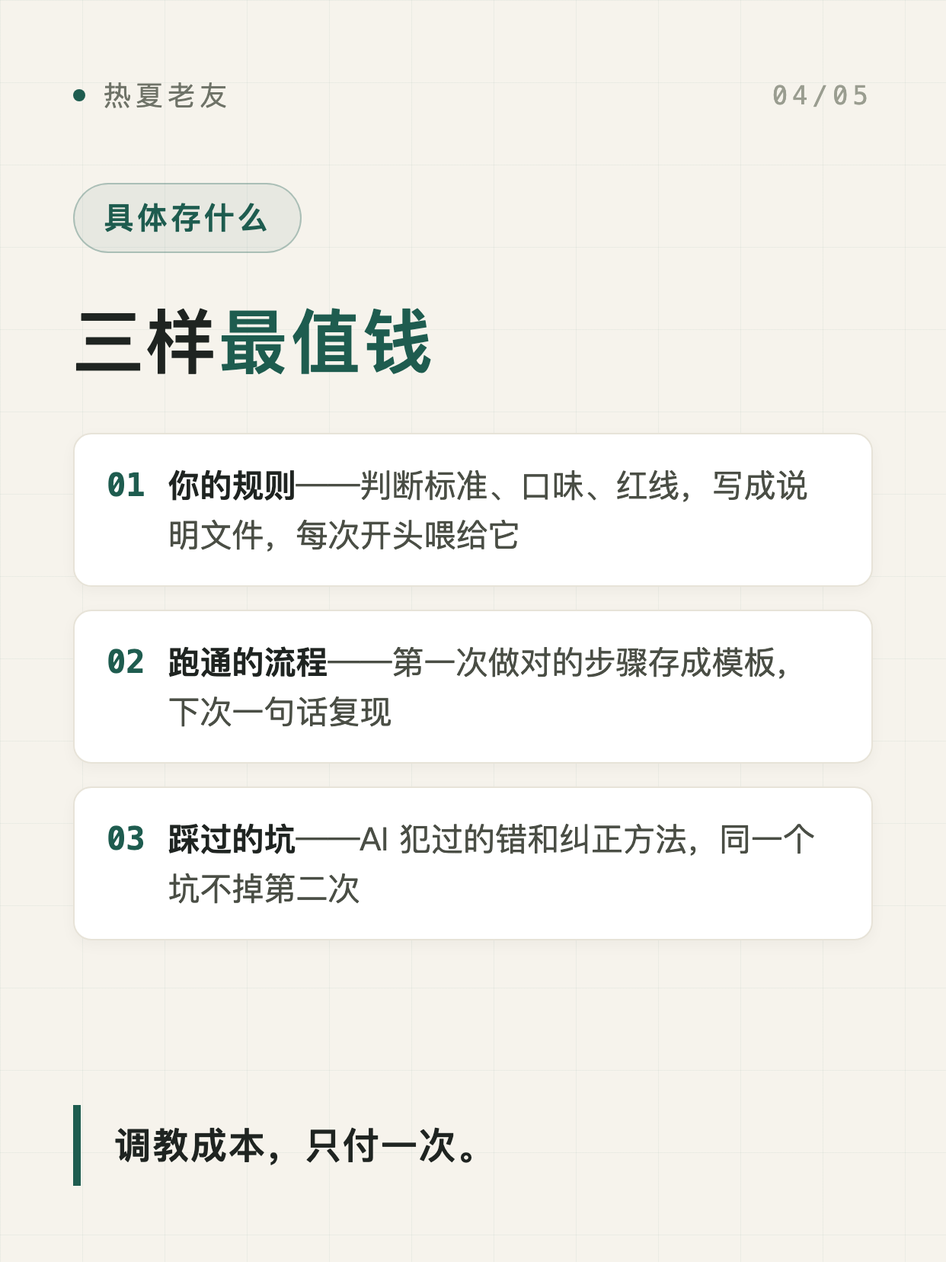
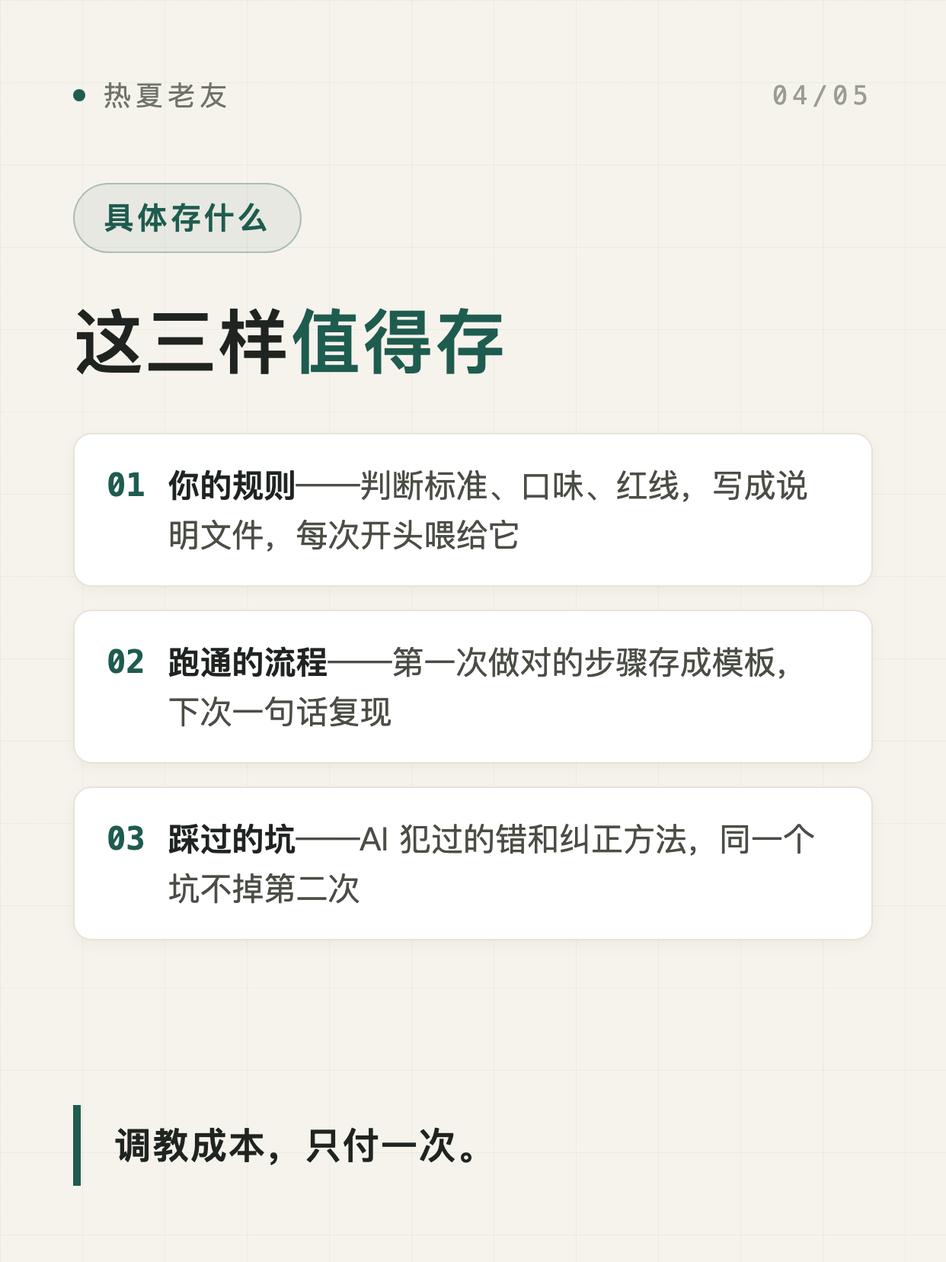
去AI化升级：新增破除统计特征规范，审稿加入AI味检测，AI复利三稿重审改写
- CLAUDE.md：去AI化写作规范独立成章，新增金句配额、节奏打乱、细节带脏等统计特征规则
- content-review：升级为合规+AI味双重审核，六项可量化检查
- xhs-post：禁用emoji小标题骨架；wx-article：金句改为全文1-2处；x-post：防节拍器感四条
- AI复利三平台稿按新标准重审改写，page4图"最值钱"改"值得存"并重渲染

Changed region(s): [[0.0612, 0.2464, 0.306, 0.308], [0.3671, 0.2464, 0.5507, 0.308]]

diff --git a/wx/2026-07-12-ai-compound-interest/article_wechat.html b/wx/2026-07-12-ai-compound-interest/article_wechat.html
@@ -20,7 +20,7 @@
   <span>点按钮 → 到公众号编辑器 Cmd+V 粘贴 → 在占位块处插入配图。本文件由 article.md 生成，改稿请改 md 后重跑脚本。</span>
 </div>
 <div class="paper"><section id="content">
-<p style="margin:22px 0;font-size:16px;line-height:1.85;letter-spacing:0.6px;color:#1F2421;text-align:justify;">上个月吃饭，一个做跨境电商的朋友跟我抱怨："AI是真好用，但也是真烦。写产品文案，每次都得把品牌调性、禁用词、格式重新教一遍。教到第十遍，我感觉自己不是在用AI，是在带一个永远记不住事的实习生。"</p>
+<p style="margin:22px 0;font-size:16px;line-height:1.85;letter-spacing:0.6px;color:#1F2421;text-align:justify;">上个月和老周吃饭——他做跨境电商的，那顿饭本来是聊他搬仓库的事，聊着聊着绕到了AI上。他抱怨："AI是真好用，但也是真烦。写产品文案，每次都得把品牌调性、禁用词、格式重新教一遍。教到第十遍，我感觉自己不是在用AI，是在带一个永远记不住事的实习生。"</p>
 <p style="margin:22px 0;font-size:16px;line-height:1.85;letter-spacing:0.6px;color:#1F2421;text-align:justify;">我问了他一句："你教它的那些东西，存在哪了？"</p>
 <p style="margin:22px 0;font-size:16px;line-height:1.85;letter-spacing:0.6px;color:#1F2421;text-align:justify;">他愣了一下："就……在对话里啊。"</p>
 <p style="margin:22px 0;font-size:16px;line-height:1.85;letter-spacing:0.6px;color:#1F2421;text-align:justify;">问题就出在这。<strong style="color:#1E5C4F;font-weight:700;">存在对话里，约等于没存。</strong></p>
@@ -30,26 +30,25 @@
 <p style="margin:22px 0;font-size:16px;line-height:1.85;letter-spacing:0.6px;color:#1F2421;text-align:justify;">而文件是硬盘。写进去的东西，明天还在，明年还在。</p>
 <p style="margin:22px 0;font-size:16px;line-height:1.85;letter-spacing:0.6px;color:#1F2421;text-align:justify;">用这对概念看，大多数人用AI的方式是"单利"：每次对话，价值当场兑现，窗口一关就归零。第100次用AI，和第1次一模一样，从零开始教。</p>
 <p style="margin:22px 0;font-size:16px;line-height:1.85;letter-spacing:0.6px;color:#1F2421;text-align:justify;">复利的用法只多一个动作：<strong style="color:#1E5C4F;font-weight:700;">每次用完，把这场对话里验证过的东西——你的要求、跑通的做法、纠正过的错误——写进一个文件。</strong>第N次使用，站在前N-1次的积累上。</p>
-<blockquote style="margin:26px 0;padding:14px 18px;background:#F6F3EC;border-left:4px solid #1E5C4F;font-size:15px;line-height:1.8;color:#6F7368;letter-spacing:0.5px;">你和AI的每一次磨合，要么蒸发，要么变成本金。</blockquote>
 <h2 style="margin:44px 0 22px;font-size:20px;font-weight:800;line-height:1.5;color:#1E5C4F;border-left:4px solid #1E5C4F;padding-left:12px;letter-spacing:1px;">复利用法长什么样：我自己的账</h2>
-<p style="margin:22px 0;font-size:16px;line-height:1.85;letter-spacing:0.6px;color:#1F2421;text-align:justify;">我用AI帮我写这个号的稿子。头几篇，每次都要重讲一遍：开头不许写"在这个时代"，不许用"赋能"这类黑话，面向普通读者、术语必须带人话翻译……一次20分钟，还经常漏。</p>
-<p style="margin:22px 0;font-size:16px;line-height:1.85;letter-spacing:0.6px;color:#1F2421;text-align:justify;">后来我把这些全写进一份项目说明文件。现在开一个新对话，它读完文件直接进入状态——知道我的口味、我的红线、上一篇写到了哪。开场30秒。</p>
-<p style="margin:22px 0;font-size:16px;line-height:1.85;letter-spacing:0.6px;color:#1F2421;text-align:justify;">20分钟变30秒，这只是表面。真正的变化是：<strong style="color:#1E5C4F;font-weight:700;">我在状态最好那天想清楚的判断标准，成了它以后每一次的起点。</strong>我状态差的时候，它也不会退步到从前。</p>
+<p style="margin:22px 0;font-size:16px;line-height:1.85;letter-spacing:0.6px;color:#1F2421;text-align:justify;">我用AI帮我写这个号的稿子。头几篇，每次都要重讲一遍：开头不许写"在这个时代"，不许用"赋能"这类黑话，面向普通读者、术语必须带人话翻译……一次十几二十分钟，还经常漏。</p>
+<p style="margin:22px 0;font-size:16px;line-height:1.85;letter-spacing:0.6px;color:#1F2421;text-align:justify;">后来我把这些全写进一份项目说明文件。现在开一个新对话，它读完文件直接进入状态——知道我的口味、我的红线、上一篇写到了哪。开场半分钟。</p>
+<p style="margin:22px 0;font-size:16px;line-height:1.85;letter-spacing:0.6px;color:#1F2421;text-align:justify;">省下的时间只是表面。真正的变化是：<strong style="color:#1E5C4F;font-weight:700;">我在状态最好那天想清楚的判断标准，成了它以后每一次的起点。</strong>我状态差的时候，它也不会退步到从前。</p>
 <h2 style="margin:44px 0 22px;font-size:20px;font-weight:800;line-height:1.5;color:#1E5C4F;border-left:4px solid #1E5C4F;padding-left:12px;letter-spacing:1px;">值得存下来的，是这五样东西</h2>
 <p style="margin:22px 0;font-size:16px;line-height:1.85;letter-spacing:0.6px;color:#1F2421;text-align:justify;">按我这一年的实践，最值得沉淀的资产有五类。别被名词吓到，每一样都有人话版本。</p>
 <p style="margin:22px 0;font-size:16px;line-height:1.85;letter-spacing:0.6px;color:#1F2421;text-align:justify;"><strong style="color:#1E5C4F;font-weight:700;">规则</strong>，就是给AI的员工手册。你的判断标准、口味、底线，白纸黑字写下来。新员工入职看手册，不用老板天天口头交代。</p>
 <p style="margin:22px 0;font-size:16px;line-height:1.85;letter-spacing:0.6px;color:#1F2421;text-align:justify;"><strong style="color:#1E5C4F;font-weight:700;">流程</strong>，是跑通一次就固化的操作模板。一件事第一次做对了，把步骤记下来，下次一句"按老规矩来"就能复现——公司里这叫SOP。</p>
-<p style="margin:22px 0;font-size:16px;line-height:1.85;letter-spacing:0.6px;color:#1F2421;text-align:justify;"><strong style="color:#1E5C4F;font-weight:700;">分工</strong>，是让合适的模型干合适的活。复杂的判断交给最强（也最贵）的模型，格式整理这类粗活交给便宜快速的。好钢用在刀刃上，账单能差好几倍。</p>
+<p style="margin:22px 0;font-size:16px;line-height:1.85;letter-spacing:0.6px;color:#1F2421;text-align:justify;"><strong style="color:#1E5C4F;font-weight:700;">分工</strong>，是让合适的模型干合适的活。复杂的判断交给强的（也贵的）模型，格式整理这类粗活交给便宜快速的，账单能差好几倍。（模型具体怎么搭配，值得单独写一篇，这里先不展开。）</p>
 <p style="margin:22px 0;font-size:16px;line-height:1.85;letter-spacing:0.6px;color:#1F2421;text-align:justify;"><strong style="color:#1E5C4F;font-weight:700;">红线</strong>，是不靠自觉的强制约束。比如"金融内容必须带风险提示"这种事，别指望AI每次都记得，写成死规矩让它绕不过去。</p>
 <p style="margin:22px 0;font-size:16px;line-height:1.85;letter-spacing:0.6px;color:#1F2421;text-align:justify;"><strong style="color:#1E5C4F;font-weight:700;">记忆</strong>，是工作日志。项目做到哪了、决定过什么、为什么，随手记下。新对话打开日志，几秒钟恢复全部进度。</p>
-<blockquote style="margin:26px 0;padding:14px 18px;background:#F6F3EC;border-left:4px solid #1E5C4F;font-size:15px;line-height:1.8;color:#6F7368;letter-spacing:0.5px;">规则、流程、分工、红线、记忆——五个抽屉，装下你和AI磨合出的全部默契。</blockquote>
+<p style="margin:22px 0;font-size:16px;line-height:1.85;letter-spacing:0.6px;color:#1F2421;text-align:justify;">规则、流程、分工、红线、记忆。五个抽屉，各装各的。</p>
 <section style="margin:26px 0;padding:18px;border:2px dashed #B8B4A8;border-radius:8px;text-align:center;font-size:14px;color:#9A9D90;letter-spacing:1px;">🖼 在此插入配图：五个并排的木质抽屉，各自微微拉开，透出不同颜色的光（插入后删除本占位块）</section>
 <h2 style="margin:44px 0 22px;font-size:20px;font-weight:800;line-height:1.5;color:#1E5C4F;border-left:4px solid #1E5C4F;padding-left:12px;letter-spacing:1px;">这笔账，越算越吓人</h2>
 <p style="margin:22px 0;font-size:16px;line-height:1.85;letter-spacing:0.6px;color:#1F2421;text-align:justify;">复利之所以是复利，在于三个机制叠在一起。</p>
 <p style="margin:22px 0;font-size:16px;line-height:1.85;letter-spacing:0.6px;color:#1F2421;text-align:justify;">调教成本只付一次。别人每次用AI都在重新付学费，你付过一次之后，每一次使用都在白嫖自己过去的积累。用得越久，单次成本越接近零。</p>
-<p style="margin:22px 0;font-size:16px;line-height:1.85;letter-spacing:0.6px;color:#1F2421;text-align:justify;">质量下限在抬升。文件里存的是你最清醒时刻的判断，它变成了每一次的默认水准。你的AI输出不再随你当天的状态起伏——下限，被你亲手焊死在了高位。</p>
+<p style="margin:22px 0;font-size:16px;line-height:1.85;letter-spacing:0.6px;color:#1F2421;text-align:justify;">质量下限在抬升。文件里存的是你最清醒时刻的判断，它变成了每一次的默认水准。你的AI输出，不再随你当天的状态起伏。</p>
 <p style="margin:22px 0;font-size:16px;line-height:1.85;letter-spacing:0.6px;color:#1F2421;text-align:justify;">最容易被忽视的是第三条：<strong style="color:#1E5C4F;font-weight:700;">这些文件不绑定任何一家AI。</strong>模型半年一换代，今天最强的明年就平庸，你依赖的那家公司甚至可能倒闭。但你的文件是你的——换个模型、换个工具，喂进去，新AI秒变老员工。</p>
-<blockquote style="margin:26px 0;padding:14px 18px;background:#F6F3EC;border-left:4px solid #1E5C4F;font-size:15px;line-height:1.8;color:#6F7368;letter-spacing:0.5px;">模型是租来的，文件才是你自己的。</blockquote>
+<section style="margin:26px 0;padding:18px;border:2px dashed #B8B4A8;border-radius:8px;text-align:center;font-size:14px;color:#9A9D90;letter-spacing:1px;">🖼 在此插入配图：金句卡 quote_1800x1013.png——&quot;模型是租来的，文件才是你自己的&quot;，替代文字引用块避免图文重复（插入后删除本占位块）</section>
 <h2 style="margin:44px 0 22px;font-size:20px;font-weight:800;line-height:1.5;color:#1E5C4F;border-left:4px solid #1E5C4F;padding-left:12px;letter-spacing:1px;">真正的护城河，从来不是"会用AI"</h2>
 <p style="margin:22px 0;font-size:16px;line-height:1.85;letter-spacing:0.6px;color:#1F2421;text-align:justify;">这是全文我最想说的一句：<strong style="color:#1E5C4F;font-weight:700;">依赖某个模型是风险，依赖自己的规范文件是护城河。</strong></p>
 <p style="margin:22px 0;font-size:16px;line-height:1.85;letter-spacing:0.6px;color:#1F2421;text-align:justify;">"会写提示词"这件事，满大街都是教程，三天就能学会，学会了也就意味着人人都会——人人都会的东西，构不成任何竞争力。</p>
@@ -60,7 +59,7 @@
 <p style="margin:22px 0;font-size:16px;line-height:1.85;letter-spacing:0.6px;color:#1F2421;text-align:justify;">如果这篇只留下一个动作，是这个：</p>
 <p style="margin:22px 0;font-size:16px;line-height:1.85;letter-spacing:0.6px;color:#1F2421;text-align:justify;">现在就建一个文档，写三件事——你在做什么（背景）、三条你的规则（要求和口味）、一个踩过的坑（AI犯过的错和你的纠正）。下次和AI对话，开头先把它喂进去。</p>
 <p style="margin:22px 0;font-size:16px;line-height:1.85;letter-spacing:0.6px;color:#1F2421;text-align:justify;">五分钟，这是你复利账户的第一笔本金。</p>
-<p style="margin:22px 0;font-size:16px;line-height:1.85;letter-spacing:0.6px;color:#1F2421;text-align:justify;">复利曲线的脾气你是知道的：前期平得让人怀疑人生，后期陡得让人不敢相信。存钱如此，存文件也如此。</p>
+<p style="margin:22px 0;font-size:16px;line-height:1.85;letter-spacing:0.6px;color:#1F2421;text-align:justify;">别指望第一周就见效。复利这东西前期都平得让人怀疑，攒文件也一样——攒着攒着，某天你会发现新对话已经不需要你教任何东西了。</p>
 <hr style="margin:36px 0;border:none;border-top:1px dashed #C9C5B9;"/>
 <p style="margin:22px 0;font-size:16px;line-height:1.85;letter-spacing:0.6px;color:#1F2421;text-align:justify;">觉得有用的话，点个"在看"，把这篇转给那个天天抱怨"AI教不会"的朋友。星标本号，这里长期写AI与普通人的交界处。</p>
 </section></div>

diff --git a/xhs/2026-07-12-ai-compound-interest/page4.html b/xhs/2026-07-12-ai-compound-interest/page4.html
@@ -26,7 +26,7 @@
   <div class="wrap">
     <div class="kicker"><span class="dot"></span><span>热夏老友</span><span class="num">04/05</span></div>
     <div class="label">具体存什么</div>
-    <h1>三样<span class="accent">最值钱</span></h1>
+    <h1>这三样<span class="accent">值得存</span></h1>
     <div class="list">
       <div class="item"><span class="no">01</span><span><strong>你的规则</strong>——判断标准、口味、红线，写成说明文件，每次开头喂给它</span></div>
       <div class="item"><span class="no">02</span><span><strong>跑通的流程</strong>——第一次做对的步骤存成模板，下次一句话复现</span></div>

diff --git a/wx/2026-07-12-ai-compound-interest/article.md b/wx/2026-07-12-ai-compound-interest/article.md
@@ -10,7 +10,7 @@
 
 # 正文
 
-上个月吃饭，一个做跨境电商的朋友跟我抱怨："AI是真好用，但也是真烦。写产品文案，每次都得把品牌调性、禁用词、格式重新教一遍。教到第十遍，我感觉自己不是在用AI，是在带一个永远记不住事的实习生。"
+上个月和老周吃饭——他做跨境电商的，那顿饭本来是聊他搬仓库的事，聊着聊着绕到了AI上。他抱怨："AI是真好用，但也是真烦。写产品文案，每次都得把品牌调性、禁用词、格式重新教一遍。教到第十遍，我感觉自己不是在用AI，是在带一个永远记不住事的实习生。"
 
 我问了他一句："你教它的那些东西，存在哪了？"
 
@@ -30,15 +30,13 @@
 
 复利的用法只多一个动作：**每次用完，把这场对话里验证过的东西——你的要求、跑通的做法、纠正过的错误——写进一个文件。**第N次使用，站在前N-1次的积累上。
 
-> 你和AI的每一次磨合，要么蒸发，要么变成本金。
-
 ## 复利用法长什么样：我自己的账
 
-我用AI帮我写这个号的稿子。头几篇，每次都要重讲一遍：开头不许写"在这个时代"，不许用"赋能"这类黑话，面向普通读者、术语必须带人话翻译……一次20分钟，还经常漏。
+我用AI帮我写这个号的稿子。头几篇，每次都要重讲一遍：开头不许写"在这个时代"，不许用"赋能"这类黑话，面向普通读者、术语必须带人话翻译……一次十几二十分钟，还经常漏。
 
-后来我把这些全写进一份项目说明文件。现在开一个新对话，它读完文件直接进入状态——知道我的口味、我的红线、上一篇写到了哪。开场30秒。
+后来我把这些全写进一份项目说明文件。现在开一个新对话，它读完文件直接进入状态——知道我的口味、我的红线、上一篇写到了哪。开场半分钟。
 
-20分钟变30秒，这只是表面。真正的变化是：**我在状态最好那天想清楚的判断标准，成了它以后每一次的起点。**我状态差的时候，它也不会退步到从前。
+省下的时间只是表面。真正的变化是：**我在状态最好那天想清楚的判断标准，成了它以后每一次的起点。**我状态差的时候，它也不会退步到从前。
 
 ## 值得存下来的，是这五样东西
 
@@ -48,13 +46,13 @@
 
 **流程**，是跑通一次就固化的操作模板。一件事第一次做对了，把步骤记下来，下次一句"按老规矩来"就能复现——公司里这叫SOP。
 
-**分工**，是让合适的模型干合适的活。复杂的判断交给最强（也最贵）的模型，格式整理这类粗活交给便宜快速的。好钢用在刀刃上，账单能差好几倍。
+**分工**，是让合适的模型干合适的活。复杂的判断交给强的（也贵的）模型，格式整理这类粗活交给便宜快速的，账单能差好几倍。（模型具体怎么搭配，值得单独写一篇，这里先不展开。）
 
 **红线**，是不靠自觉的强制约束。比如"金融内容必须带风险提示"这种事，别指望AI每次都记得，写成死规矩让它绕不过去。
 
 **记忆**，是工作日志。项目做到哪了、决定过什么、为什么，随手记下。新对话打开日志，几秒钟恢复全部进度。
 
-> 规则、流程、分工、红线、记忆——五个抽屉，装下你和AI磨合出的全部默契。
+规则、流程、分工、红线、记忆。五个抽屉，各装各的。
 
 [配图：五个并排的木质抽屉，各自微微拉开，透出不同颜色的光]
 
@@ -64,11 +62,11 @@
 
 调教成本只付一次。别人每次用AI都在重新付学费，你付过一次之后，每一次使用都在白嫖自己过去的积累。用得越久，单次成本越接近零。
 
-质量下限在抬升。文件里存的是你最清醒时刻的判断，它变成了每一次的默认水准。你的AI输出不再随你当天的状态起伏——下限，被你亲手焊死在了高位。
+质量下限在抬升。文件里存的是你最清醒时刻的判断，它变成了每一次的默认水准。你的AI输出，不再随你当天的状态起伏。
 
 最容易被忽视的是第三条：**这些文件不绑定任何一家AI。**模型半年一换代，今天最强的明年就平庸，你依赖的那家公司甚至可能倒闭。但你的文件是你的——换个模型、换个工具，喂进去，新AI秒变老员工。
 
-> 模型是租来的，文件才是你自己的。
+[配图：金句卡 quote_1800x1013.png——"模型是租来的，文件才是你自己的"，替代文字引用块避免图文重复]
 
 ## 真正的护城河，从来不是"会用AI"
 
@@ -90,7 +88,7 @@
 
 五分钟，这是你复利账户的第一笔本金。
 
-复利曲线的脾气你是知道的：前期平得让人怀疑人生，后期陡得让人不敢相信。存钱如此，存文件也如此。
+别指望第一周就见效。复利这东西前期都平得让人怀疑，攒文件也一样——攒着攒着，某天你会发现新对话已经不需要你教任何东西了。
 
 ---
 

diff --git a/.claude/skills/wx-article/SKILL.md b/.claude/skills/wx-article/SKILL.md
@@ -20,7 +20,7 @@ description: 生成微信公众号文章。当用户要为某个想法/选题创
   - 开头 150 字内抛出核心矛盾或反常识结论，留住人；
   - 正文用 3-5 个小标题分节，每节一个递进的论点；
   - 论证靠具体：数据、案例、时间线、对比，少形容词；
-  - 每节安排 1 句可被单独摘出转发的"金句"；
+  - 全文安排 1-2 句可被单独摘出转发的"金句"（放在情绪高点，供金句卡选用）——**不要每节都有**，其余小节平收，金句过密是 AI 文指纹；
   - 结尾：收拢观点 + 一个开放式问题引导留言 + 引导关注/星标。
 - **语气**：冷静、有判断、第一人称视角。敢下结论，但结论跟着论据走。
 - **配图建议**：在正文中用 `[配图：描述]` 标注 2-4 处建议配图的位置和内容。
@@ -32,7 +32,7 @@ description: 生成微信公众号文章。当用户要为某个想法/选题创
 - **段落**：每段不超过 5 行（手机一行约 18-20 字），段间空行。开头三段尤其要短。
 - **小标题**：用 `##` 二级标题，全文 3-5 个，标题是观点句不是名词短语（"补贴一停，需求就露馅了" 而非 "市场分析"）。
 - **加粗**：每屏（约 300 字）至少一处 `**加粗**` 作视觉锚点，加粗的是结论句而非随机词组；全文加粗不超过 10 处，泛滥等于没有。
-- **引用块**：`>` 用于金句、数据来源、他人观点三种场景，一节最多 1 处。
+- **引用块**：`>` 用于金句、数据来源、他人观点三种场景，一节最多 1 处；其中金句类引用全文 ≤2 处（与金句配额一致，不许每节末尾都挂一条）。
 - **分割线**：`---` 只用于正文与结尾互动区之间，正文内不用。
 - **配图**：`[配图：描述]` 占位放在小节开头或情绪节点，不要连续两段都是图。文末附"配图生图 Prompt"一节——为每处占位写一条可直接粘贴到生图工具（即梦/Midjourney 等）的完整中文 prompt：画面主体 + 构图 + 风格 + 色调 + 比例（公众号横图 16:9 或 3:2），画面内不出现文字（AI 生图文字易错，需要文字的图改用 HTML 模板截图方案）。
 - **列表**：并列信息才用 bullet，全文 bullet 组 ≤2 处（与去AI化规范一致）。
@@ -69,7 +69,7 @@ python3 .claude/skills/wx-article/scripts/md2wechat.py wx/<主题文件夹>/arti
 
 ## 去AI化（强制）
 
-严格遵守项目 CLAUDE.md 的"叙事与受众规范"和"去AI化写作规范"。公众号虽是最深度阵地，但深度≠门槛：面向普通读者，每节用故事或场景开场，术语必须带人话翻译，先例后论。长文是 AI 腔重灾区，额外注意：小标题不用"一、二、三"式机械编号，用观点句做标题；每节长度不要均匀；论证中必须出现具体的时间、数字、人和事，而非抽象概括。初稿完成后按两份规范自查一遍再交付。
+严格遵守项目 CLAUDE.md 的"叙事与受众规范"和"去AI化写作规范"（含"破除统计特征"）。公众号虽是最深度阵地，但深度≠门槛：面向普通读者，每节用故事或场景开场，术语必须带人话翻译，先例后论。长文是 AI 腔重灾区，额外注意：小标题不用"一、二、三"式机械编号，用观点句做标题；每节长度不要均匀；金句全文 ≤2 处，多数小节平收、不升华；故事人物给名字或具体身份、细节带与论点无关的"噪声"，数字别都是整数；比喻不必全文闭环，允许半途丢弃；论证中必须出现具体的时间、数字、人和事，而非抽象概括。初稿完成后按两份规范自查一遍再交付。
 
 **结构反模板**：动笔前翻看 `wx/` 下最近 2-3 篇 article.md，本篇开场类型、骨架、小标题风格、结尾动作必须与上一篇错开（轮换菜单见 CLAUDE.md"结构反模板"）。小节数量也别固定在 3-5 的同一个数上。
 

diff --git a/CLAUDE.md b/CLAUDE.md
@@ -27,7 +27,7 @@ operations/ # 运营：起号规划、周复盘记录（cold-start-plan.md）
 
 - `/new-idea`：总入口。想法 → 选题文件 → 三平台内容一次生成。
 - `/xhs-post`、`/wx-article`、`/x-post`：单平台生成，各自内置平台规范和红线。
-- `/content-review`：平台合规审稿。任何平台文字稿在初稿交付前和定稿出图前**必须**过其分平台红线（小红书禁加密/web3 词条最严），审出问题先改再交付。
+- `/content-review`：平台审稿（合规 + AI 味）。任何平台文字稿在初稿交付前和定稿出图前**必须**过其分平台红线（小红书禁加密/web3 词条最严）和 AI 味检测（金句密度、节奏均匀度、细节干净度等统计特征），审出问题先改再交付。
 
 ## 叙事与受众规范（所有平台强制）
 
@@ -57,6 +57,8 @@ operations/ # 运营：起号规划、周复盘记录（cold-start-plan.md）
 
 图片模板的视觉统一是品牌资产，**文字结构的雷同是慢性毒药**——视觉可以像，行文不能像。
 
+## 去AI化写作规范（所有平台强制）
+
 生成的内容不能有 AI 味。写完必须逐条自查：
 
 **禁用的 AI 套话**
@@ -76,7 +78,19 @@ operations/ # 运营：起号规划、周复盘记录（cold-start-plan.md）
 - 保留口语毛边：可以用"说白了""讲真""这事儿"，允许反问和自嘲
 - 有个人在场感：第一人称的经历、犹豫、改变过的想法，比完美论证更可信
 
-**自查动作**：初稿完成后通读一遍，问"这段话删掉会损失信息吗？像不像一个具体的人说的话？"——套话删除，AI 腔重写，再交付。
+**破除统计特征（AI 检测和读者体感的真正抓手）**
+
+AI 文最大的指纹不是某个词，而是"句句完成度高、节奏均匀、毫无冗余"——过于完美本身就是破绽。检测器和老练读者抓的都是统计均匀性：
+
+- **金句配额**：一篇最多 1-2 个 punchline。禁止每段/每节都用金句收尾——大部分段落平收，甚至允许一段话没有结论。宁可把最好的一句留住，删掉其余的"次好"。
+- **段落长短要乱**：写完看一眼各段字数分布，如果长度接近就合并或拆散。允许一段啰嗦、一段只有半句话。
+- **比喻允许不闭环**：不必每个比喻都首尾呼应、体系自洽。真人打比方经常打到一半发现不贴切就丢掉换一个——这种"废弃的比喻"反而真实。
+- **细节要脏**：人物给名字或具体身份（"做跨境电商的老周"而非"一个朋友"）；数字带零头和模糊（"大概十七八分钟"而非"20 分钟"）；场景带一个与论点无关的细节（在哪吃的饭、当时还聊了什么）。为论点服务的"干净道具人"一眼假。
+- **允许半成品想法**：一个支线想法可以只展开一半（"这个话题下次单说"）；允许自我修正（"一开始我以为是记性问题，后来发现不对"）；允许括号插入语和轻微跑题。
+
+**边界**：瑕疵只作用于表达层，不降低内容质量——事实、数据、来源、逻辑链依然必须扎实。脏的是毛边，不是数据。真实经历里的具体细节可以写实；不掌握的细节宁可模糊（"大概""印象里"），不编造精确值。
+
+**自查动作**：初稿完成后通读一遍，做三件事——① 问"这段话删掉会损失信息吗？像不像一个具体的人说的话？"，套话删除，AI 腔重写；② 数金句：以判断句/升华句收尾的段落超过 2 处，删到 2 处以内；③ 扫一眼段落长度和句式，均匀就打乱。做完再交付。
 
 ## 工作流约定
 

diff --git a/x/2026-07-12-ai-compound-interest/thread.md b/x/2026-07-12-ai-compound-interest/thread.md
@@ -5,29 +5,27 @@ Thread（7 条）
 # 内容
 
 1/
-过去 3 个月，同一套要求，我对 AI 重复讲了不下 20 遍。
+过去仨月，同一套要求，我对着 AI 少说讲了二十遍。
 
-后来我想通了：不是 AI 记性差，是我一直在用「单利」的方式用它。
+后来想通了：不是它记性差，是我一直在用「单利」的方式用它。
 
 怎么把 AI 用成复利，这条线程讲清楚。🧵
-（约160/280字符）
+（约140/280字符）
 
 2/
-单利：每次对话，价值当场兑现，窗口一关就归零。第 100 次用和第 1 次一样，从零开始。
+单利：每次对话价值当场兑现，窗口一关归零，第 100 次用和第 1 次没区别。
 
-复利：每次用完，把验证过的东西沉淀成文件。第 100 次使用，站在前 99 次的积累上。
-
-差距就是这么拉开的。
-（约185/280字符）
+复利：每次用完，把验证过的东西沉淀成文件，下一次站在上一次的积累上。
+（约135/280字符）
 
 3/
-一个类比：
+打个比方——
 
-AI 的对话窗口 = 内存，断电就清空。
+对话窗口 = 内存，断电清空。
 文件 = 硬盘，写进去就一直在。
 
-复利只做一件事：不断把内存里验证过的东西，写进硬盘。
-（约125/280字符）
+复利只做一件事：把内存里验证过的，不断写进硬盘。
+（约110/280字符）
 
 4/
 存什么？五样：
@@ -40,21 +38,18 @@ AI 的对话窗口 = 内存，断电就清空。
 （约200/280字符）
 
 5/
-复利体现在哪？
+我自己的账：以前每开个新对话，得花十几二十分钟把它调教进状态，还经常漏。现在半分钟。
 
-调教成本只付一次——以前每次花 20 分钟教它进入状态，现在 30 秒。
-
-质量下限被抬高——你状态最好那天沉淀的判断力，成了以后每一次的起点。
-（约145/280字符）
+省时间是小头。真正的变化是，我状态最好那天写下的判断标准，成了它以后每一次的起点。
+（约160/280字符）
 
 6/
-最反直觉的一点：
+顺带说一句，总有人纠结"押哪个模型"。
 
-依赖某个模型是风险，模型半年就换代。
-依赖自己的文件是护城河，换什么模型都能用。
+其实模型半年一换代，押谁都会错。文件不一样——换什么模型，喂进去接着用。
 
-竞争力从来不是「会用 AI」——那个人人都会。是你攒下的那套文件，偷不走。
-（约170/280字符）
+依赖模型是风险，依赖自己的文件才是护城河。
+（约150/280字符）
 
 7/
 最小行动：今天建一个文档，写三件事——
@@ -62,9 +57,7 @@ AI 的对话窗口 = 内存，断电就清空。
 你在做什么、三条你的规则、一个 AI 踩过的坑。
 
 五分钟，复利账户的第一笔本金。
-
-从今天起，别再让你的调教成果白白蒸发。
-（约150/280字符）
+（约115/280字符）
 
 # 配图
 
@@ -72,7 +65,7 @@ AI 的对话窗口 = 内存，断电就清空。
 
 # 备选首条
 
-你教给 AI 的所有东西，99% 在你关掉对话的那一刻蒸发了。
+你教给 AI 的东西，几乎全在你关掉对话的那一刻蒸发了。
 
-把这个比例反过来，就是普通用户和高手用 AI 的全部差距。🧵
-（约115/280字符）
+有一类人例外——他们随手把这些存成了文件。这条线程讲讲怎么做。🧵
+（约120/280字符）

diff --git a/xhs/2026-07-12-ai-compound-interest/content.md b/xhs/2026-07-12-ai-compound-interest/content.md
@@ -13,25 +13,17 @@
 
 同一件事，我给AI讲了七遍，才反应过来不对劲。
 
-我的写作口味、格式要求、不许用哪些词——每开一个新对话，就得从头再教。这次教完，下次它又忘光。
+我的写作口味、格式要求、不许用哪些词——每开一个新对话，就得从头再教。一开始我以为是自己提示词写得不行，换着花样改了几版，没用。这次教完，下次它照样忘光。
 
-后来我想明白了：不是AI记性差，是我用错了方式。
+后来才想明白，问题不在AI记性差，在我用的方式上。
 
-👉 大多数人把AI用成「单利」
+大多数人用AI是「单利」：每次对话，价值当场兑现，窗口一关就归零。第100次用，和第1次一样从零开始。
 
-每次对话，价值当场兑现，窗口一关就归零。
-第100次用AI，和第1次一样，从零开始。
+复利的用法只多一个动作——每次用完，把有价值的东西存下来。下一次，站在上一次的积累上。
 
-聪明的用法是「复利」：每次用完，把有价值的东西存下来。第100次使用，站在前99次的积累上。
+打个比方，AI的记性像电脑内存，断电就清空；文件才是硬盘，写进去就一直在。所谓复利，就是不断把内存里验证过的东西写进硬盘。就这么一件事。
 
-👉 一个类比，秒懂
-
-AI的记性像电脑内存，断电就清空。
-文件才是硬盘，写进去就一直在。
-
-所谓复利，就是不断把内存里验证过的东西，写进硬盘。
-
-👉 具体存什么？三样最值钱
+具体存什么？我自己攒了小半年，真觉得值得存的是三样：
 
 1⃣ 你的规则
 判断标准、口味、红线，写成一份说明文件。以后每次对话开头喂给它，不用再教。
@@ -42,24 +34,17 @@ AI的记性像电脑内存，断电就清空。
 3⃣ 踩过的坑
 AI在哪犯过错、你怎么纠正的，记下来。同一个坑不掉第二次。
 
-👉 复利真正的爽点
+效果呢，以前每开个新对话，得花十几二十分钟把它调教进状态，还经常漏这漏那。现在开场半分钟。
 
-调教成本只付一次。以前每次花20分钟教它进入状态，现在开场30秒。
+省时间还在其次。你状态最好那天想清楚的标准，成了它以后每一次的起点——你状态差的时候，它也不会跟着退步。
 
-更狠的是：这些文件不绑定任何一家AI。哪天你换了工具、旧模型下线了，把文件一喂，新AI秒变老员工。
+还有一层，这些文件不绑定任何一家AI。哪天你换了工具、旧模型下线了，把文件一喂，新AI秒变老员工。
 
-说白了——
-会用AI，人人都会。
-你攒下的那套文件，才是别人偷不走的。
+说白了，会用AI这件事人人都会。你攒下的那套文件，才是别人偷不走的。
 
-👉 今天就能做的最小动作
+今天就能做：建一个文档，写你在做什么、三条你的规则、一个踩过的坑。五分钟的事。
 
-建一个文档，写三件事：
-你在做什么、三条你的规则、一个踩过的坑。
-
-五分钟。这是你复利账户的第一笔本金。
-
-收藏完这篇，就去建第一份文件吧📁
+你被AI的"失忆"坑过没？评论区聊聊👇
 
 #AI #AI工具 #效率提升 #AI使用技巧 #个人成长
 

diff --git a/.claude/skills/xhs-post/SKILL.md b/.claude/skills/xhs-post/SKILL.md
@@ -26,9 +26,9 @@ description: 生成小红书笔记。当用户要为某个想法/选题创作小
 
 - **移动端行宽**：手机一行约显示 20 字。长句在 20 字内制造停顿，避免一句话占满三行。
 - **段落**：每段 1-3 行，段与段之间空一行。全文看起来要"透气"，大段文字直接劝退。
-- **视觉锚点**：用 emoji/符号做小标题和分点（📌 ✅ 💡 ⚠ 👉 ▪），同一篇内符号体系保持一致——比如分点统一用 ✅，提醒统一用 ⚠，不要混着换。
-- **强调**：没有加粗可用，重点靠——单独成段、前置 emoji、或用「中式引号」框住关键词。
-- **数字分点**：超过 3 个并列点时用 1⃣2⃣3⃣ 或 "1. " 编号，方便读者截图收藏。
+- **视觉锚点**：默认靠空行 + 短段落 + 叙述流转场；emoji 只做局部点缀（提醒用 ⚠、单处强调用 💡 之类），正文总量 ≤10 个。**禁用"每节一个 👉/📌 小标题"的 emoji 骨架**——那是平台上 AI 批量笔记的标准形态，等于自带识别标签（2026-07 复盘结论）。
+- **强调**：没有加粗可用，重点靠——单独成段、或用「中式引号」框住关键词。
+- **数字分点**：确有并列清单时可用 1⃣2⃣3⃣ 或 "1. " 编号（方便截图收藏），一篇最多 1 组；能用叙述讲清的不列点。
 - **首行**：编辑器里正文第一行会出现在信息流摘要里，第一行必须是钩子，不要放 emoji 装饰或空话。
 
 ## 整套图生成（封面 + 内容图）
@@ -51,7 +51,7 @@ description: 生成小红书笔记。当用户要为某个想法/选题创作小
 
 ## 去AI化（强制）
 
-严格遵守项目 CLAUDE.md 的"叙事与受众规范"和"去AI化写作规范"：面向普通人、故事先行、场景化表达、术语带人话翻译；禁 AI 套话、破除均匀结构、注入具体经历和口语毛边。小红书尤其注意——emoji 分点排版容易滑向模板腔，分点之外的句子必须像真人聊天。初稿完成后按两份规范自查一遍再交付。
+严格遵守项目 CLAUDE.md 的"叙事与受众规范"和"去AI化写作规范"（含"破除统计特征"：金句一篇 ≤2 处、段落长短打乱、细节带脏、允许毛边和半成品想法）。小红书尤其注意——emoji 骨架已在排版规范中禁用，全篇要像真人在聊天里把一件事讲完，而不是一份被排版过的清单。初稿完成后按两份规范自查一遍再交付。
 
 **结构反模板**：动笔前翻看 `xhs/` 下最近 2-3 篇 content.md，本篇开场类型和骨架必须与上一篇不同（轮换菜单见 CLAUDE.md"结构反模板"）。emoji 分点符号体系也别篇篇一样——上篇用 ✅ 这篇可以换 1⃣ 或纯空行分段。
 

diff --git a/.claude/skills/x-post/SKILL.md b/.claude/skills/x-post/SKILL.md
@@ -48,7 +48,13 @@ X 是纯文本，排版只有一个工具：**换行**。
 
 ## 去AI化（强制）
 
-严格遵守项目 CLAUDE.md 的"叙事与受众规范"和"去AI化写作规范"。X 观点可以锋利，但表达要通俗：术语带人话翻译，首条尽量用故事或场景开钩（而非纯判断句）。X 上 AI 腔一眼假：不用"让我们""值得深思"，thread 各条句式不要雷同（不能每条都是"观点+解释"同一模板），至少一条带个人经历或具体场景。初稿完成后按两份规范自查一遍再交付。
+严格遵守项目 CLAUDE.md 的"叙事与受众规范"和"去AI化写作规范"（含"破除统计特征"）。X 观点可以锋利，但表达要通俗：术语带人话翻译，首条尽量用故事或场景开钩（而非纯判断句）。X 上 AI 腔一眼假，thread 尤其要防"节拍器感"：
+- 各条句式不要雷同——禁止每条都走"观点句 → 解释 → 金句收尾"同一模板；
+- 金句配额：全 thread 以金句收尾的条目 ≤2 条，其余条平收（以事实、细节或半截问题结束都行）；
+- 各条长度别均匀，允许一条很短（一两行）、一条偏长；
+- 至少一条带个人经历或具体场景，细节带零头（"大概十七八分钟"而非"20 分钟"）。
+
+初稿完成后按两份规范自查一遍再交付。
 
 **结构反模板**：动笔前翻看 `x/` 下最近 2-3 篇 thread.md，形态（单条/thread）、首条开钩方式、条数、结尾动作与上一篇错开（轮换菜单见 CLAUDE.md"结构反模板"）。不要每次都是"8 条 thread + 结尾提问"。
 
